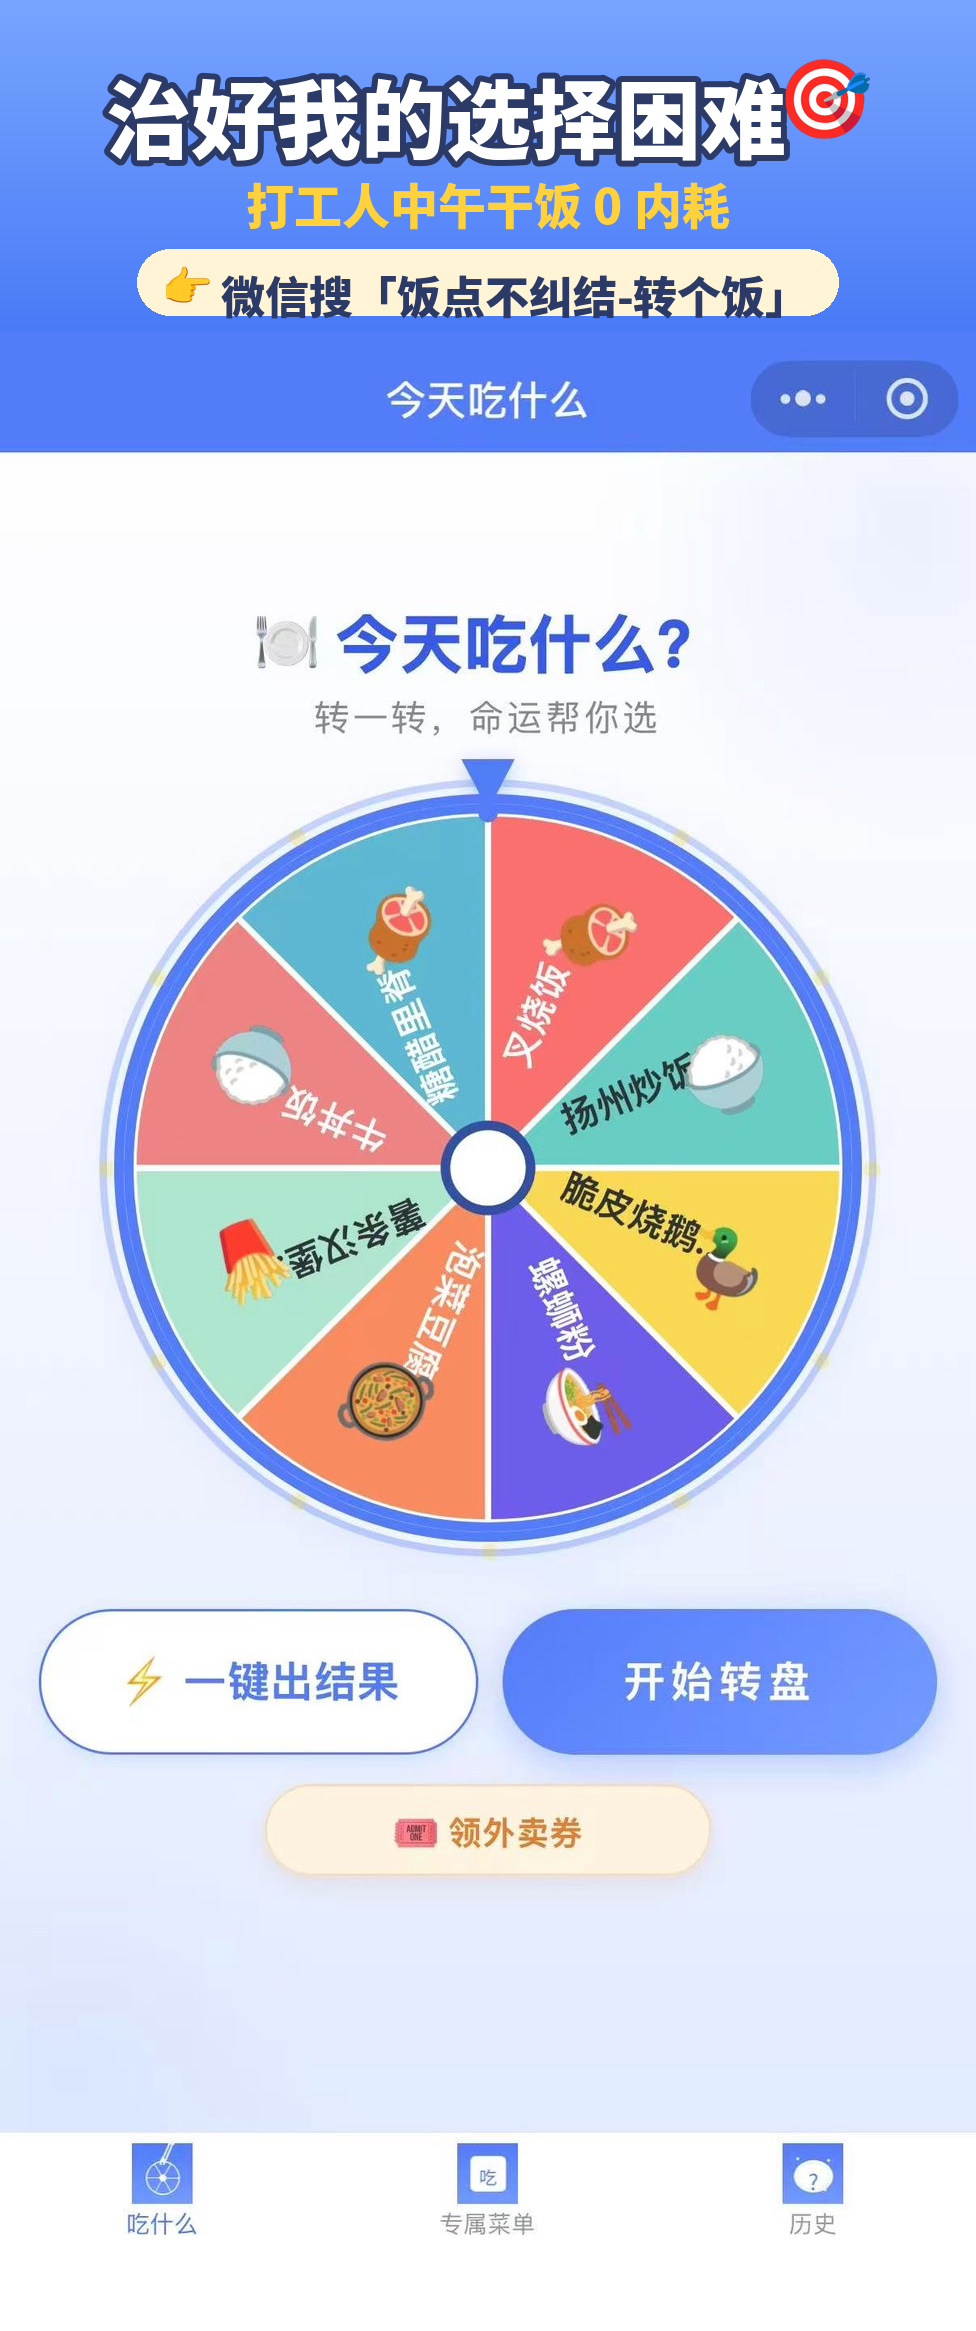
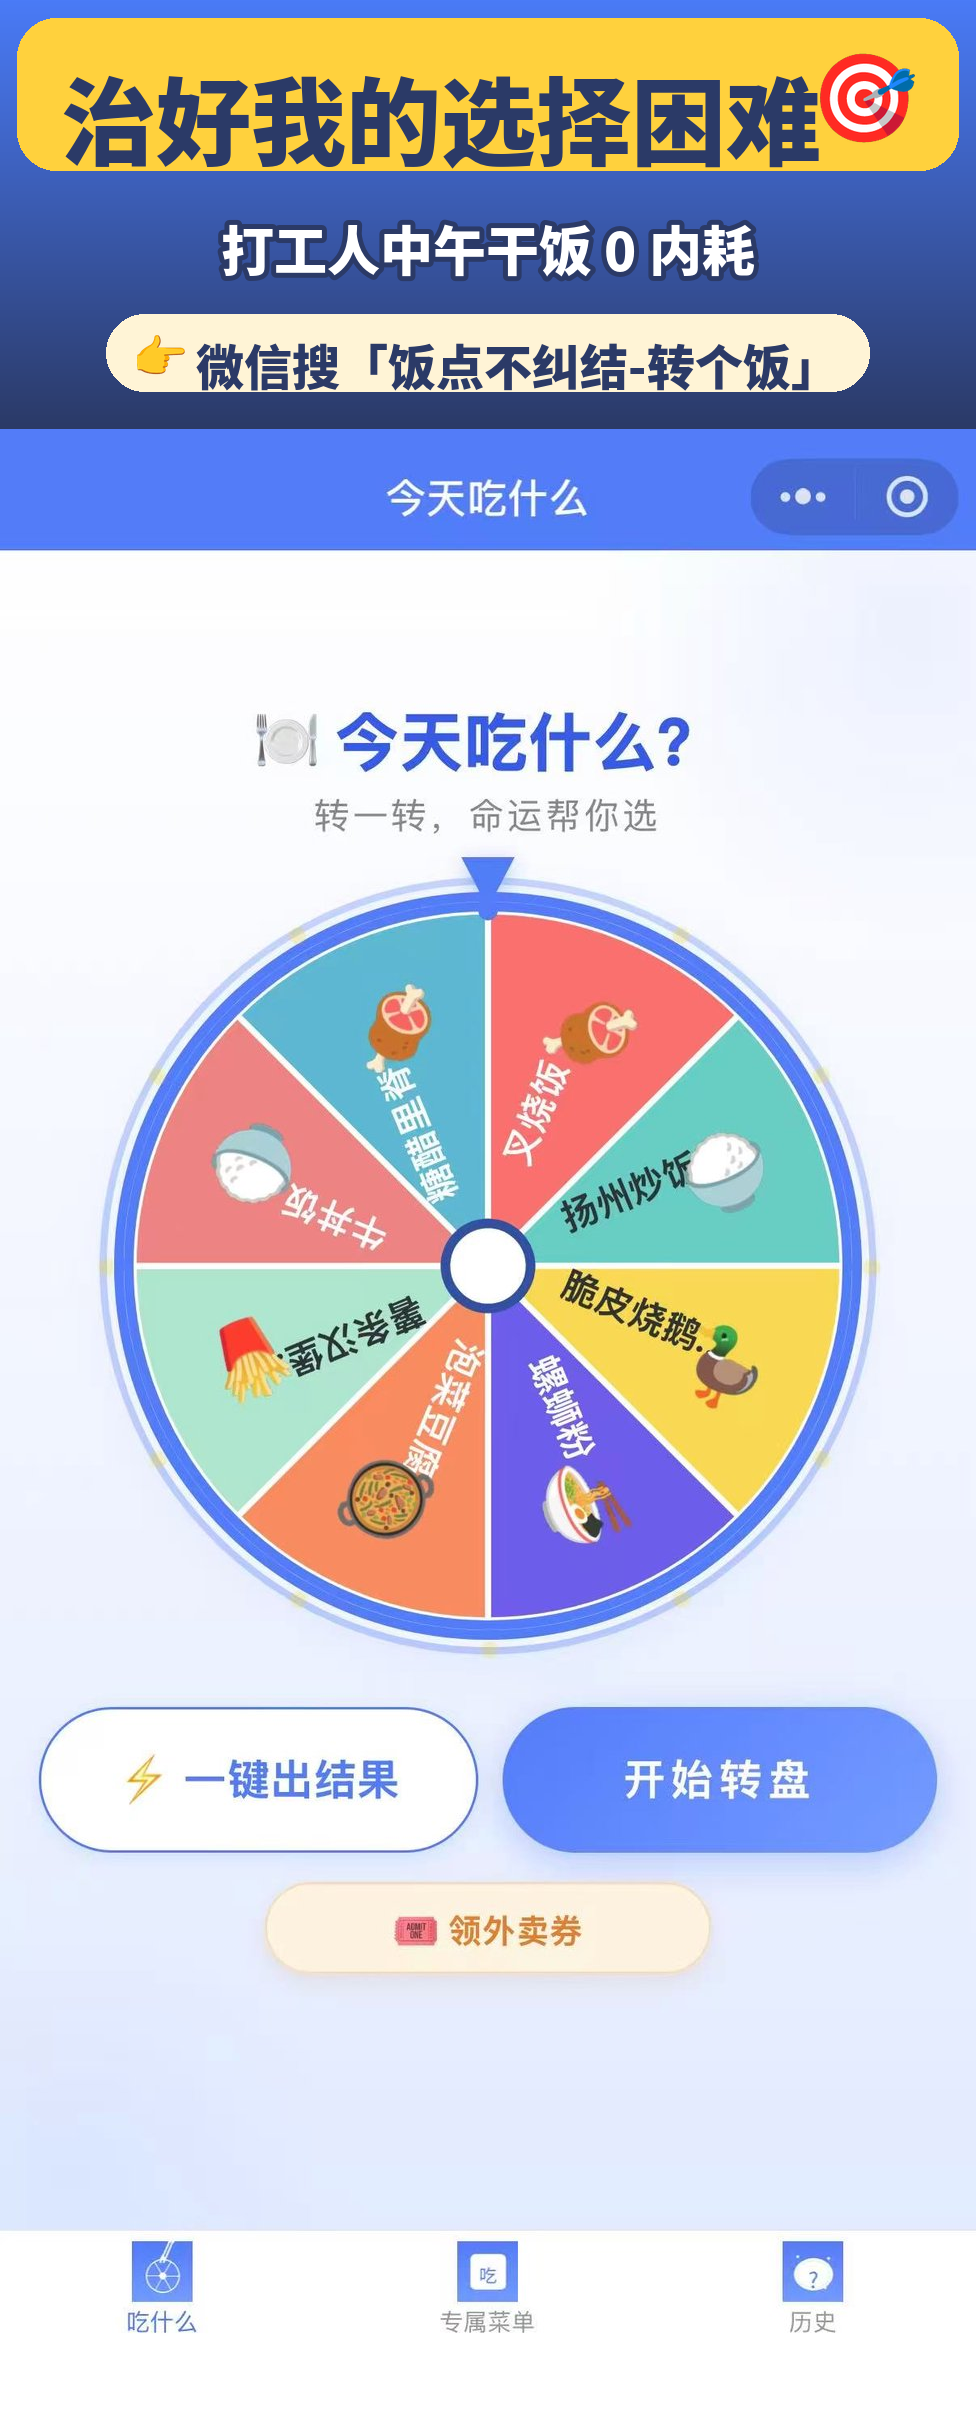
style: 推广配图标题改为黄底深蓝大字撞色高亮块，加深顶部蓝条，文字更醒目

diff --git a/images/gen_promo.py b/images/gen_promo.py
@@ -127,41 +127,56 @@ def vgradient(w, h, top, bot):
     return base
 
 
+def block_center(canvas, cx, y, s, size, text_fill, block_fill, bold=True):
+    """先画圆角高亮块，再在块上居中画图文，最大化可读性。"""
+    d = ImageDraw.Draw(canvas)
+    tw = measure(d, s, size, bold)
+    padx = size * 0.45
+    pady = size * 0.30
+    box = [cx - tw / 2 - padx, y - pady, cx + tw / 2 + padx, y + size + pady]
+    d.rounded_rectangle(box, radius=int(size * 0.42), fill=block_fill)
+    draw_center(canvas, cx, y, s, size, text_fill, bold)
+    return box
+
+
 def process(item):
     fname, out, cover, title, sub = item
     src = Image.open(os.path.join(SRC_DIR, fname)).convert('RGB')
     W, Hs = src.size
-    band = int(W * (0.34 if cover else 0.20))
+    band = int(W * (0.44 if cover else 0.27))
     canvas = Image.new('RGB', (W, Hs + band), WHITE)
 
-    # 顶部渐变标题条
-    grad = vgradient(W, band, BLUE_L, BLUE)
+    # 顶部渐变标题条（加深到深蓝，衬托亮色文字）
+    grad = vgradient(W, band, BLUE, NAVY)
     canvas.paste(grad, (0, 0))
     canvas.paste(src, (0, band))
 
     if cover:
-        # 封面：大主标题 + 副标题 + 小程序名徽标
-        ts = int(W * 0.088)
-        ss = int(W * 0.05)
-        ns = int(W * 0.046)
-        draw_center(canvas, W / 2, band * 0.16, title, ts, WHITE, stroke=6)
-        draw_center(canvas, W / 2, band * 0.16 + ts * 1.35, sub, ss, YELLOW)
+        # 封面：黄底大主标题（撞色最跳）+ 白色副标题 + 小程序名徽标
+        ts = int(W * 0.098)
+        ss = int(W * 0.055)
+        ns = int(W * 0.05)
+        y0 = band * 0.11
+        block_center(canvas, W / 2, y0, title, ts, NAVY, YELLOW)
+        draw_center(canvas, W / 2, y0 + ts * 1.7, sub, ss, WHITE,
+                    stroke=5, stroke_fill=NAVY)
         # 小程序名徽标（奶油底圆角）
         d = ImageDraw.Draw(canvas)
         name_txt = '👉 微信搜「' + APP_NAME + '」'
         nw = measure(d, name_txt, ns)
-        pad = int(W * 0.03)
-        by = band * 0.16 + ts * 1.35 + ss * 1.7
-        box = [W / 2 - nw / 2 - pad, by, W / 2 + nw / 2 + pad, by + ns * 1.5]
-        d.rounded_rectangle(box, radius=int(ns * 0.75), fill=CREAM)
-        draw_center(canvas, W / 2, by + ns * 0.28, name_txt, ns, NAVY)
+        pad = int(W * 0.032)
+        by = y0 + ts * 1.7 + ss * 2.0
+        box = [W / 2 - nw / 2 - pad, by, W / 2 + nw / 2 + pad, by + ns * 1.6]
+        d.rounded_rectangle(box, radius=int(ns * 0.8), fill=CREAM)
+        draw_center(canvas, W / 2, by + ns * 0.3, name_txt, ns, NAVY)
     else:
-        # 内容图：单行标题 + 小程序名副行
-        ts = int(W * 0.062)
-        ns = int(W * 0.038)
-        draw_center(canvas, W / 2, band * 0.24, title, ts, WHITE, stroke=5)
-        draw_center(canvas, W / 2, band * 0.24 + ts * 1.35,
-                    '小程序「' + APP_NAME + '」', ns, CREAM, bold=False)
+        # 内容图：黄底大标题（撞色）+ 白色小程序名
+        ts = int(W * 0.078)
+        ns = int(W * 0.044)
+        y0 = band * 0.20
+        block_center(canvas, W / 2, y0, title, ts, NAVY, YELLOW)
+        draw_center(canvas, W / 2, y0 + ts * 1.75,
+                    '小程序「' + APP_NAME + '」', ns, WHITE)
 
     canvas.save(os.path.join(OUT, out), quality=92)
     print('生成', out, canvas.size)
